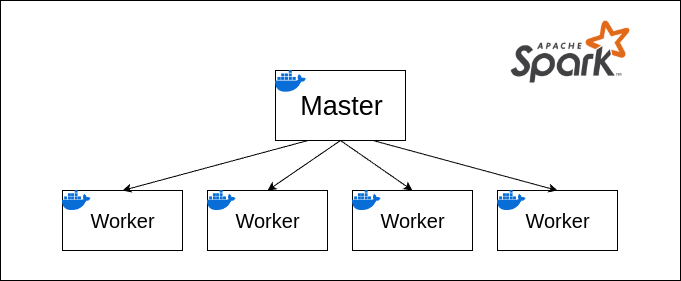
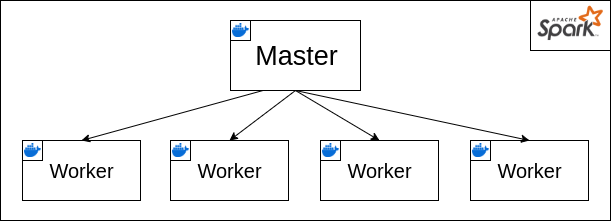
slide - hdfs

diff --git a/presentation/presentation.tex b/presentation/presentation.tex
@@ -162,6 +162,9 @@
 \subsection{Data storage}
 \begin{frame}{Data storage-HDFS}
     Per lo storage del dataset filtrato è stato utilizzato HDFS, non è stata utilizzata una particolare struttura del filesystem, in particolare i dati sono stati memorizzati nella root directory
+    \begin{adjustbox}{margin=0cm 0cm 0cm 0.8cm, center} % left, bottom, right, top
+        \includegraphics[width=.6\textwidth]{res/hdfs_cluster.png}
+    \end{adjustbox}
 \end{frame}
 %---------------------------------------------------------Slide 8
 
@@ -176,7 +179,7 @@
         \column{0.5\textwidth}
             \begin{minipage}{0.5\textwidth}
                 \raggedleft
-                \includegraphics[width=1\textwidth]{res/spark_icon.png}
+                \includegraphics[width=.9\textwidth]{res/spark_icon.png}
             \end{minipage}
     \end{columns}
 
@@ -187,7 +190,7 @@
         \item Replicazione docker compose
     \end{itemize}
     \begin{adjustbox}{margin=0.5cm, center}
-        \includegraphics[width=0.5\textwidth]{res/spark_cluster.png}
+        \includegraphics[width=0.7\textwidth]{res/spark_cluster.png}
     \end{adjustbox}
 
 
@@ -296,9 +299,10 @@
 \setLayout{mainpoint}
 \setBGColor{TorVergataGreen}
 \begin{frame}{}
-    \frametitle{Conclusione}
+    \frametitle{Conclusioni}
 \end{frame}
 \section{Conclusioni}
+\subsection{Risultati}
 \subsection{Performance}
 
 %--------------------------------------------------------- Slide 5
